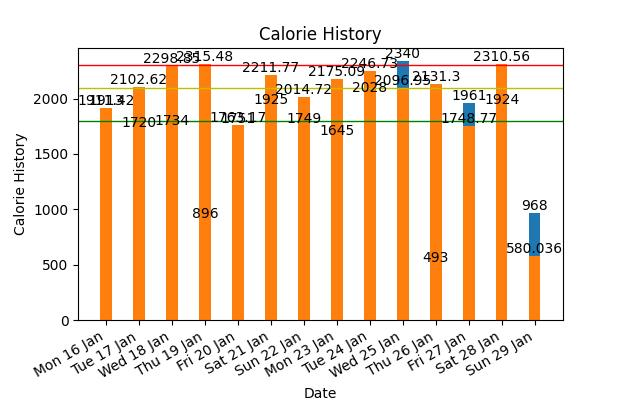
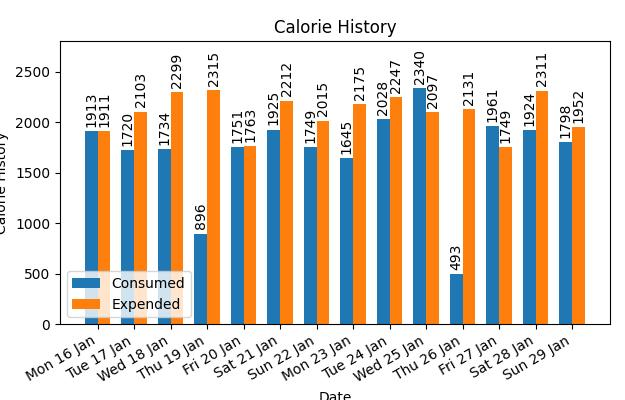
Cleaned up the graph and the calorie table.

diff --git a/history.py b/history.py
@@ -27,57 +27,55 @@ class CalorieHistoryPlotter:
 
     def plot_save(self, calorie_history, maintain, slow_loss, fast_loss, file_name):
 
-        data = []
-        # Build X/Y data
-        for key in calorie_history:
-            record = [calorie_history[key]['date'], key, calorie_history[key]['calories consumed'],
-                        calorie_history[key]['calories expended']]
-            #print(record)
-            data.append(record)
-        data.sort()
-
         #print(data[0])
 
         # Trim to the max history
-        data = data[-self.max_plot_points:]
+        calorie_history = calorie_history[-self.max_plot_points:]
 
         x_data=[]
         y_consumed_data=[]
         y_expended_data=[]
 
-        for i in range(len(data)):
-            x_data.append(data[i][1])
-            y_consumed_data.append(data[i][2])
-            y_expended_data.append(data[i][3])
+        for i in range(len(calorie_history)):
+            x_data.append(calorie_history[i][1])
+            y_consumed_data.append(calorie_history[i][2])
+            y_expended_data.append(round(calorie_history[i][3]))
 
-        print(x_data, y_consumed_data)
+        #print(x_data, y_consumed_data)
 
         # Set up the plot
         fig, ax = plt.subplots(figsize=(6.25, 4))
 
         # Bar Plot
 
-        plt.axhline(y=maintain, linewidth=1, color='r')
-        plt.axhline(y=slow_loss, linewidth=1, color='y')
-        plt.axhline(y=fast_loss, linewidth=1, color='g')
+        #plt.axhline(y=maintain, linewidth=1, color='r')
+        #plt.axhline(y=slow_loss, linewidth=1, color='y')
+        #plt.axhline(y=fast_loss, linewidth=1, color='g')
 
         #ax.plot(x_data, y_data)
         width = 0.35
 
         x = numpy.arange(len(x_data))  # the label locations
+        #print(x)
 
-        bar_graph1 = ax.bar(x_data, y_consumed_data, width, label='Consumed')
-        bar_graph2 = ax.bar(x_data, y_expended_data, width, label='Expended')
-        ax.bar_label(bar_graph1)
-        ax.bar_label(bar_graph2)
+        bar_graph1 = ax.bar(x - width/2, y_consumed_data, width, label='Consumed')
+        bar_graph2 = ax.bar(x + width/2, y_expended_data, width, label='Expended')
+        ax.bar_label(bar_graph1, rotation='vertical', padding = 3)
+        ax.bar_label(bar_graph2, rotation='vertical', padding = 3)
+
+        ax.legend(loc='lower left')
+        ax.set_xticks(x, x_data)
 
         # rotate and align the tick labels so they look better
         fig.autofmt_xdate()
+        fig.tight_layout()
 
         # naming the x axis
         matplotlib.pyplot.xlabel('Date')
+
         # naming the y axis
-        matplotlib.pyplot.ylabel('Calorie History')
+        matplotlib.pyplot.ylabel('Calorie History',)
+        matplotlib.pyplot.ylim(0, 2800)
 
         # giving a title to my graph
         matplotlib.pyplot.title('Calorie History')
@@ -138,19 +136,22 @@ class CalorieHistoryFrame(tk.Frame):
         history_tree_frame.columnconfigure(0, weight=4)
         history_tree_frame.columnconfigure(1, weight=1)
         history_tree_frame.columnconfigure(2, weight=1)
+        history_tree_frame.columnconfigure(3, weight=1)
 
         # Create the meal TreeView, which tracks the meal
-        self.history_tree = ttk.Treeview(history_tree_frame, columns=('db_id','Date', 'Weight', 'kCal'),
+        self.history_tree = ttk.Treeview(history_tree_frame, columns=('db_id','Date', 'Weight', 'kCal In', 'kCal Out'),
                                            show='headings', height=18)
 
-        self.history_tree["displaycolumns"] = ('Date', 'kCal')
+        self.history_tree["displaycolumns"] = ('Date', 'kCal In', 'kCal Out')
 
-        self.history_tree.column('Date', anchor=tk.W, width=110)
+        self.history_tree.column('Date', anchor=tk.W, width=80)
         # self.history_tree.column('Weight', anchor=tk.CENTER, width=80)
-        self.history_tree.column('kCal', anchor=tk.E, width=50)
+        self.history_tree.column('kCal In', anchor=tk.E, width=40)
+        self.history_tree.column('kCal Out', anchor=tk.E, width=40)
 
         self.history_tree.heading('Date', text="Date")
-        self.history_tree.heading('kCal', text="kCal")
+        self.history_tree.heading('kCal In', text="kCal In")
+        self.history_tree.heading('kCal Out', text="kCal Out")
 
         self.history_tree.grid(column=0, row=0)
         sb = ttk.Scrollbar(history_tree_frame, orient=tk.VERTICAL)
@@ -172,7 +173,6 @@ class CalorieHistoryFrame(tk.Frame):
 
         for item in history_data:
             date = datetime.strptime(item[1][:10],"%Y-%m-%d").strftime('%Y-%m-%d')
-            print(date)
 
             day_date = datetime.strptime(item[1][:10],"%Y-%m-%d").strftime('%a %d %b')
 
@@ -199,27 +199,38 @@ class CalorieHistoryFrame(tk.Frame):
                 #print(history_rec)
                 calorie_history[day_date] = history_rec
 
+        # Sorting is needed as out of order records may have been added.
+        sorted_data = []
+        # Build X/Y data
+        for key in calorie_history:
+            record = [calorie_history[key]['date'], key, calorie_history[key]['calories consumed'],
+                        calorie_history[key]['calories expended']]
+            #print(record)
+            sorted_data.append(record)
+        sorted_data.sort()
+
         # Plot the last 2 weeks
         #calorie_history.sort(key = self.history_sort())
 
         if self.last_calorie_history is None or self.last_calorie_history != calorie_history:
             #print("updating graph")
 
-            self.calorie_plotter.plot_save(calorie_history, 2300, 2100, 1800, 'calorie_history_graph.jpg')
+            self.calorie_plotter.plot_save(sorted_data, 2300, 2100, 1800, 'calorie_history_graph.jpg')
 
-        self.history_tree.tag_configure('odd', font=("fixedsys",12), background='light grey')
-        self.history_tree.tag_configure('even', font=("fixedsys",12))
+        self.history_tree.tag_configure('odd', font=("fixedsys",9), background='light grey')
+        self.history_tree.tag_configure('even', font=("fixedsys",9))
 
         index =0
 
-        for key in calorie_history:
+        for i in sorted_data:
+            insert_data = [0, i[1], 0, i[2], round(i[3])]
             if index %2:
                 self.history_tree.insert(parent='', index=index,
-                                         values=(0, key, 0, calorie_history[key]['calories consumed']),
+                                         values= insert_data,
                                          tags='even')
             else:
                 self.history_tree.insert(parent='', index=index,
-                                         values=(0, key, 0, calorie_history[key]['calories consumed']),
+                                         values=insert_data,
                                          tags='odd')
             index = index + 1
 

diff --git a/scale_gui.py b/scale_gui.py
@@ -127,6 +127,8 @@ class App(tk.Frame):
 
         # Create the Google Fit If Object, which connects to Google Fit to get calories expended data.
         google_fit_if_obj = google_fit_if.GoogleFitIf(sys.argv)
+        google_fit_if_obj.daemon = True
+        google_fit_if_obj.start()
 
         # Create the calorie history and body weight frames.
 
